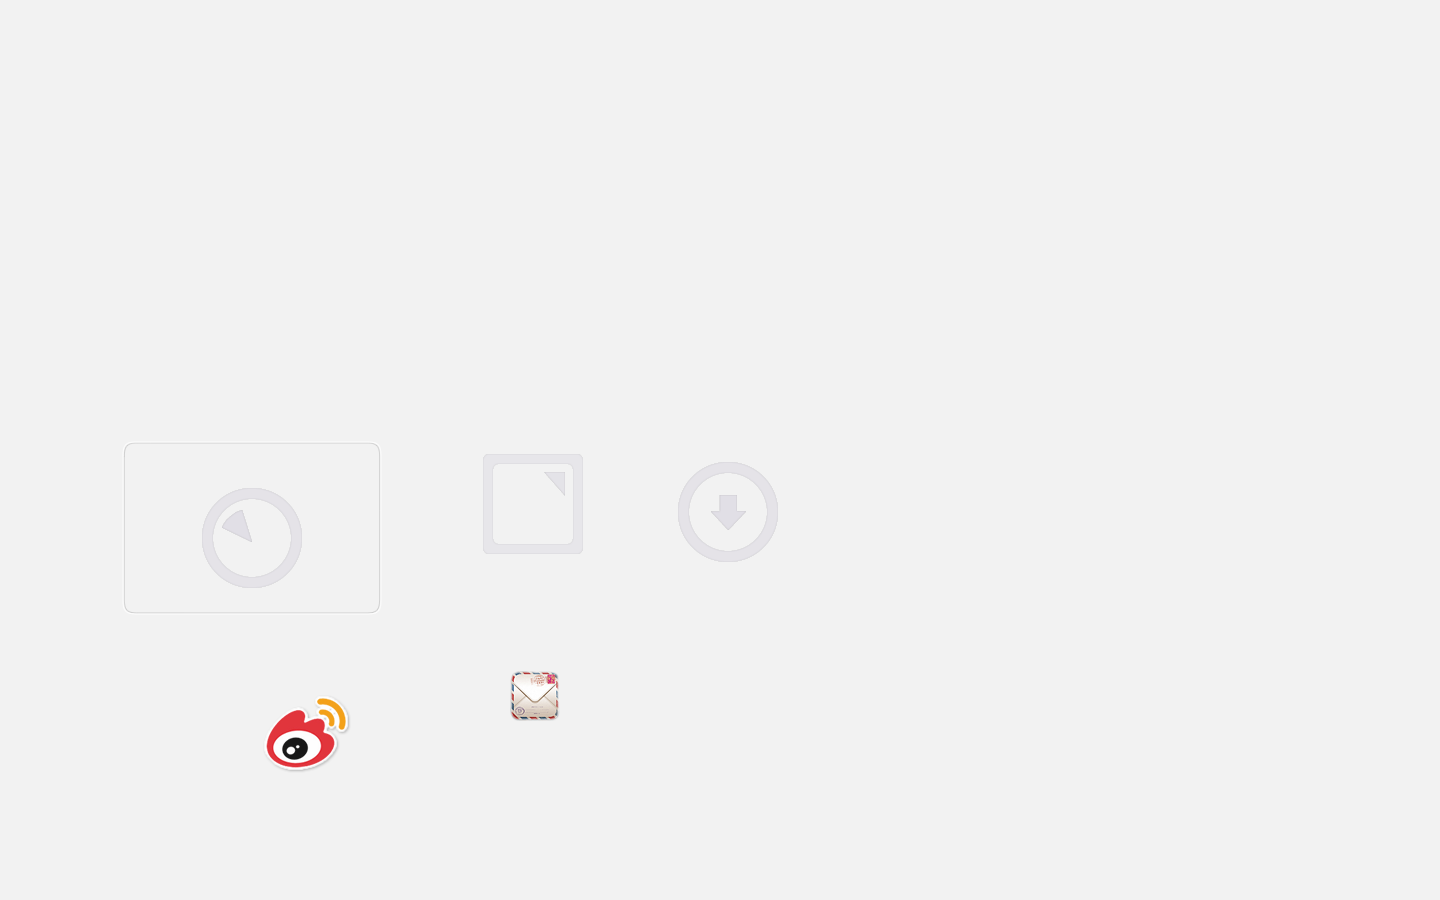
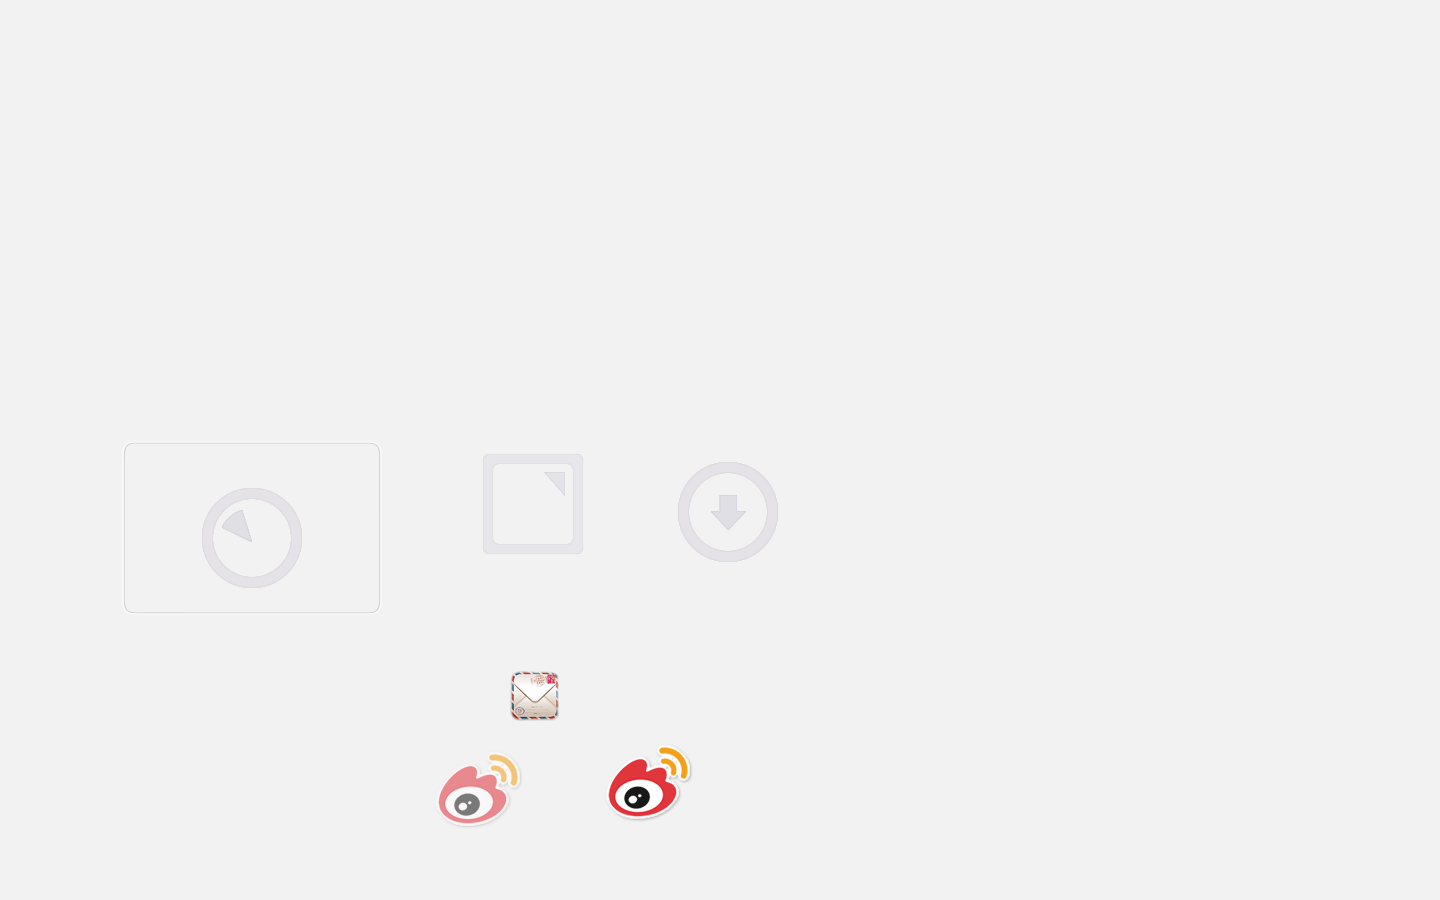
编辑了特性页面

Changed region(s): [[0.4062, 0.84, 0.5, 0.9333], [0.2812, 0.84, 0.375, 0.9333], [0.1875, 0.7778, 0.25, 0.8711]]

diff --git a/web/feature/feature.html b/web/feature/feature.html
@@ -37,10 +37,10 @@
 
 			<div id="content">
 				<div class='section'>
-					<img class='left' src="./images/simple.png">
+					<img class='left' src="./images/type.jpg">
 					<div class='right'>
 						<p class="title">轻盈简单</p>
-						<p class="sub">一张图片的体积，装下数十种交互图表；简单到仅需一句代码便可完成图表的创建；</p>
+						<p class="sub">一张图片的体积，装下数十种交互图表；简单到仅需一句代码便可完成图表的创建；ficharts比任何一款Flash图表的构建都简单，无需记录swf文件位置；多种构建方式，将构建图表过程简化到极致。</p>
 					</div>
 				</div>
 
@@ -48,13 +48,13 @@
 					
 					<div class='left'>
 						<p class="title">组合图表</p>
-						<p class="sub">通过XML灵活定义图表类型，任意组合图表，试分析多维数据更简单。</p>
+						<p class="sub">通过XML灵活定义图表类型，不管是多序列还是不同图表类型的任意组合ficharts都能轻松达成，用精简的配置文件取代冗长的代码，使分析多维数据更简单。</p>
 					</div>
-					<img class='right' src="./images/simple.png">
+					<img class='right' src="./images/muti.jpg">
 				</div>
 
 				<div class='section'>
-					<img class='left' src="./images/simple.png">
+					<img class='left' src="./images/style.jpg">
 					<div class='right'>
 						<p class="title">风格多样</p>
 						<p class="sub">内置多种样式，适应多种页面风格；支持自定义样式模板，精确调节每个UI细节，打造属于自己的品味。</p>
@@ -65,9 +65,9 @@
 					
 					<div class='left'>
 						<p class="title">多平台支持</p>
-						<p class="sub">可用于web、桌面、移动平台。借助于AIR技术将应用无缝迁移至任何终端。</p>
+						<p class="sub">可用于web、桌面、移动平台。借助于AIR技术将应用无缝迁移至任何终端。桌面端兼容所有浏览器，移动端可提供app独有的完美体验。</p>
 					</div>
-					<img class='right' src="./images/simple.png">
+					<img class='right' src="./images/mobile.jpg">
 				</div>
 
 

diff --git a/web/document/data/creation/chartConfig/chartConfig.html b/web/document/data/creation/chartConfig/chartConfig.html
@@ -104,6 +104,12 @@
 								<td>false</td>
 								<td>是否群组方式显示数据，如数字<span class='code'>325,682</span>设置了<span class='code'>useGrouping</span>为<span class='code'>true</span>后显示为<span class='code'>325,682</span>，此特性在显示货币类型数据时会用到。</td>
 							</tr>	
+							<tr>
+								<td><span class='code'>bgVisible</span></td>
+								<td>true/false</td>
+								<td>true</td>
+								<td>是否隐藏图表背景</td>
+							</tr>	
 
 						</tbody>
 					</table>

diff --git a/FiCharts/html-template/index.template.html b/FiCharts/html-template/index.template.html
@@ -12,7 +12,12 @@
         </style>
         <script type="text/javascript">
             
-            new Chart2D('chartID, data.xml')//.setStyle('Classic');
+           var chart = new Chart2D('chartID, data2.xml').setStyle('Black').onRendered(function(){
+            	
+            	
+            	chart.setDataFile('data.xml')
+            	
+            });
             //new Pie2D('chartID, pieData.xml').setStyle('Simple');
             
         </script>

diff --git a/web/index.html b/web/index.html
@@ -80,7 +80,7 @@
 				</div>
 
 				<div id='sina'>
-					<a onfocus=this.blur() href="http://weibo.com/u/2431448684" target='_bank'><img title='关注官方微博' src="./images/sina.jpg"></a>
+					<a onfocus=this.blur() href="http://weibo.com/u/2431448684" target='_bank'><img title='关注官方微博' src="./images/sina_up.jpg"></a>
 				</div>
 				
 			</div>

diff --git a/web/feature/feature.css b/web/feature/feature.css
@@ -15,6 +15,7 @@
     display: block;
     margin: 20px 0;
     height: 380px;
+    border-bottom: 1px dashed #DDDDDD;
 }
 
 img.left {
@@ -44,7 +45,7 @@ div.left {
 	position: relative;
     text-align: center;
     float: left;
-    width: 300px;
+    width: 350px;
     margin: 100px 100px 0 0; 
 }
 

diff --git a/web/js/home.js b/web/js/home.js
@@ -15,6 +15,13 @@
 				$('a.label', this).css('color', '#888')
 			})
 		})
+
+
+		$('#sina img').mouseover(function(){
+			$(this).attr('src', './images/sina_over.jpg')
+		}).mouseout(function(){
+			$(this).attr('src', './images/sina_up.jpg')
+		})
 		
 	})
 	
